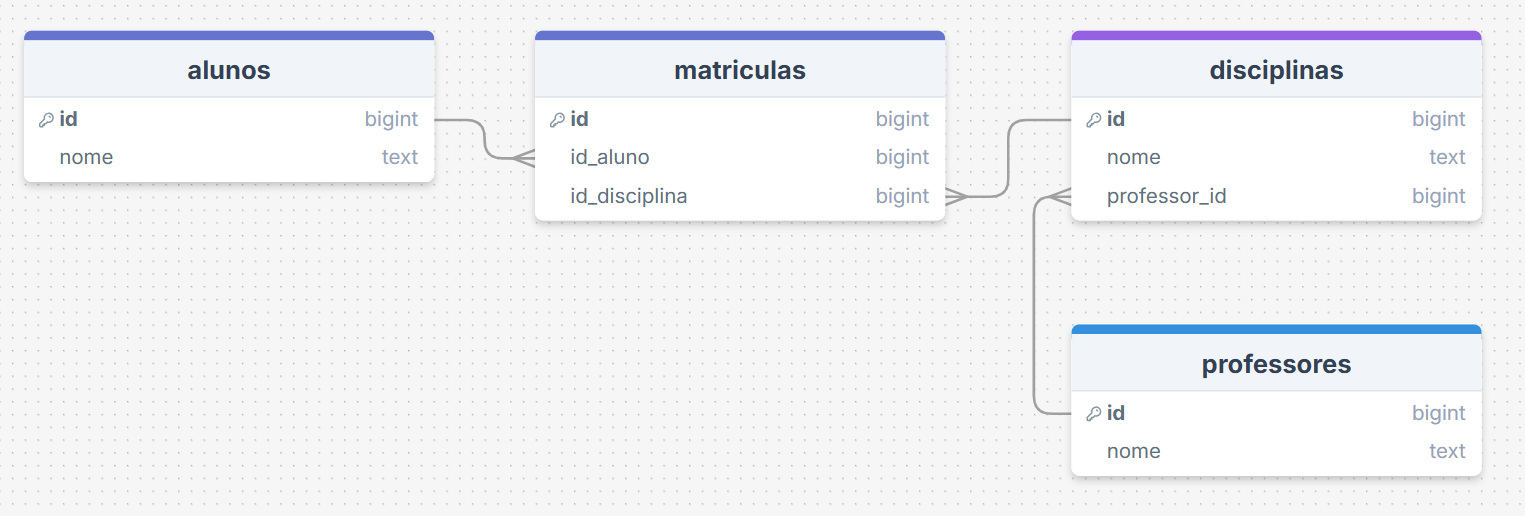
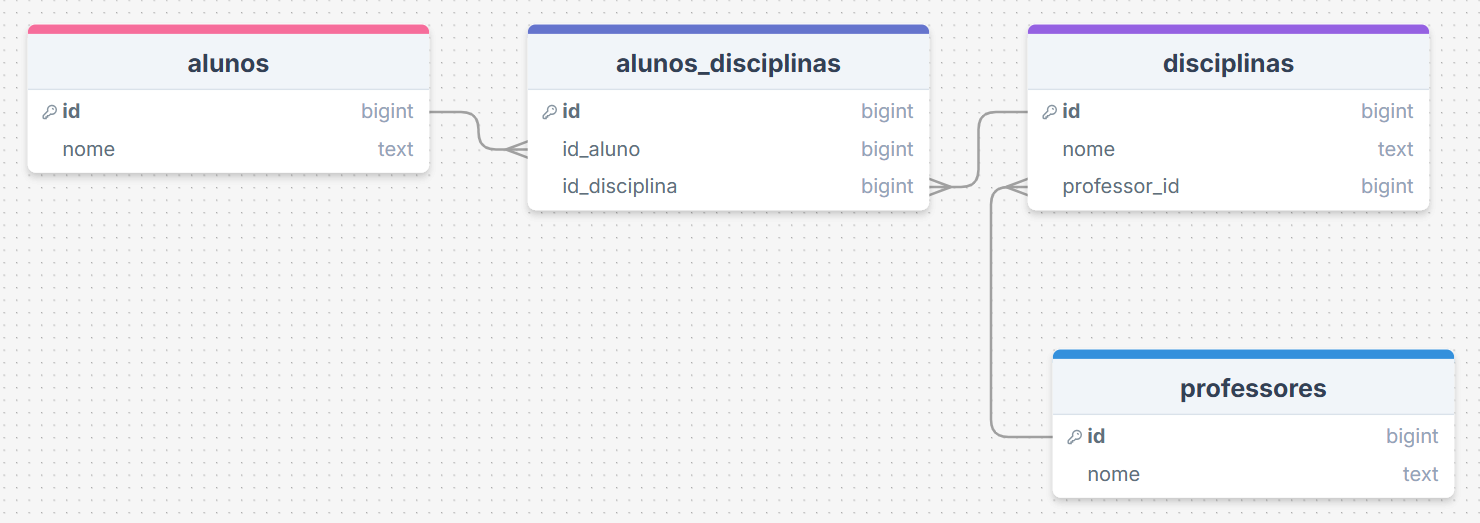
refactor: corrige nomes das tabelas associativas

diff --git a/alunos/jose_junior/tarefa03/respostas_facil.md b/alunos/jose_junior/tarefa03/respostas_facil.md
@@ -56,7 +56,7 @@ A tabela possui um atributo multivalorado (`alunos`) violando a 1FN que determin
 
 **2. Como ficaria a modelagem correta?**
 
-A tabela inicial seria transformada em duas tabelas `Alunos` e `Cursos`, cada uma tendo os seus respectivos atributos (`id` e `nome`), por se tratar de uma relação **N-N** ou **Muitos para Muitos** (Um curso pode ter muitos alunos e cada aluno pode se matricular em muitos cursos), é criada uma tabela associativa (`Matrículas`).
+A tabela inicial seria transformada em duas tabelas `Alunos` e `Cursos`, cada uma tendo os seus respectivos atributos (`id` e `nome`), por se tratar de uma relação **N-N** ou **Muitos para Muitos** (Um curso pode ter muitos alunos e cada aluno pode se matricular em muitos cursos), é criada uma tabela associativa (`Alunos_Cursos`).
 
 ![Modelagem do Exercício 03](imagens/exercicio03.PNG)
 

diff --git a/alunos/jose_junior/tarefa03/respostas_dificil.md b/alunos/jose_junior/tarefa03/respostas_dificil.md
@@ -60,7 +60,7 @@ Sim, pois uma disciplina pode possuir um ou vários alunos, assim como um aluno 
 
 **2. Quais tabelas devem existir?**
 
-A tabela inicial é dividida em 4 tabelas (`Alunos`, `Matriculas`, `Disciplinas` e `Professores`), evitando assim a replicação desnecessárias de dados e a presença de dependências funcionais e transitivas.
+A tabela inicial é dividida em 4 tabelas (`Alunos`, `Disciplinas`, `Professores` e `Alunos_Disciplinas`), evitando assim a replicação desnecessárias de dados e a presença de dependências funcionais e transitivas.
 
 ![Modelagem do Exercício 09](imagens/exercicio09.PNG)
 
